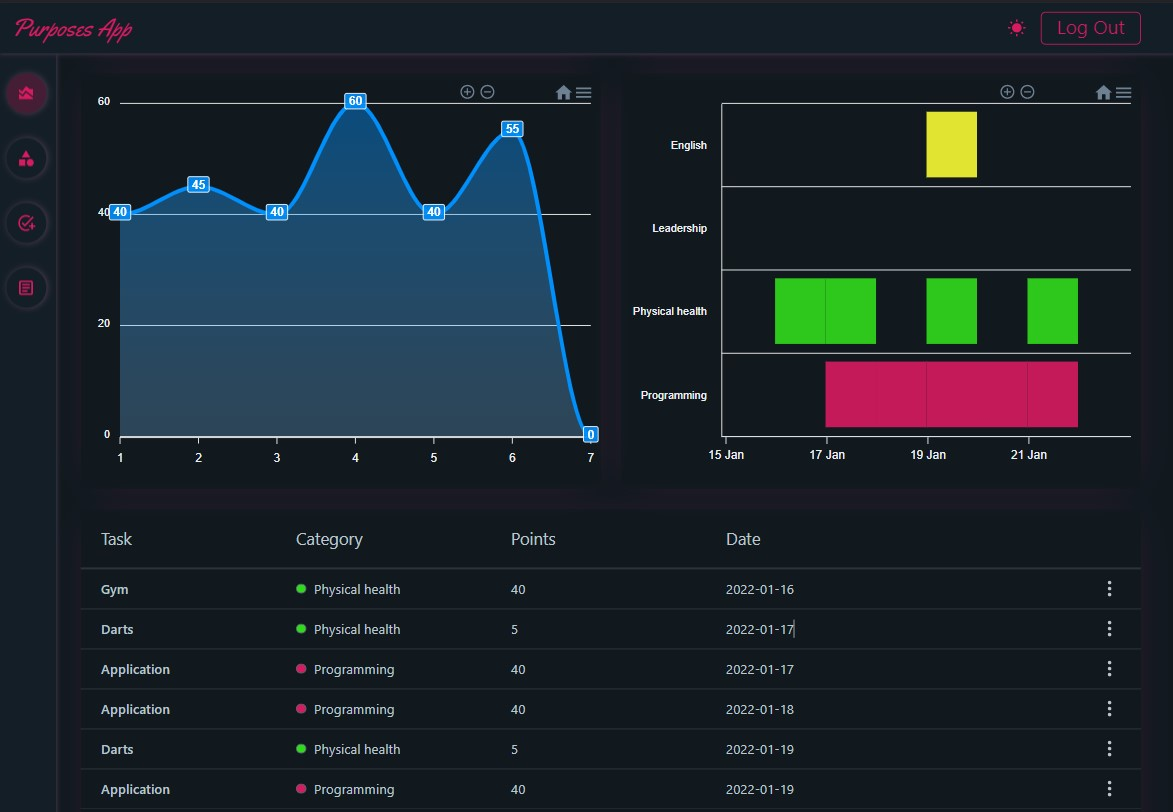
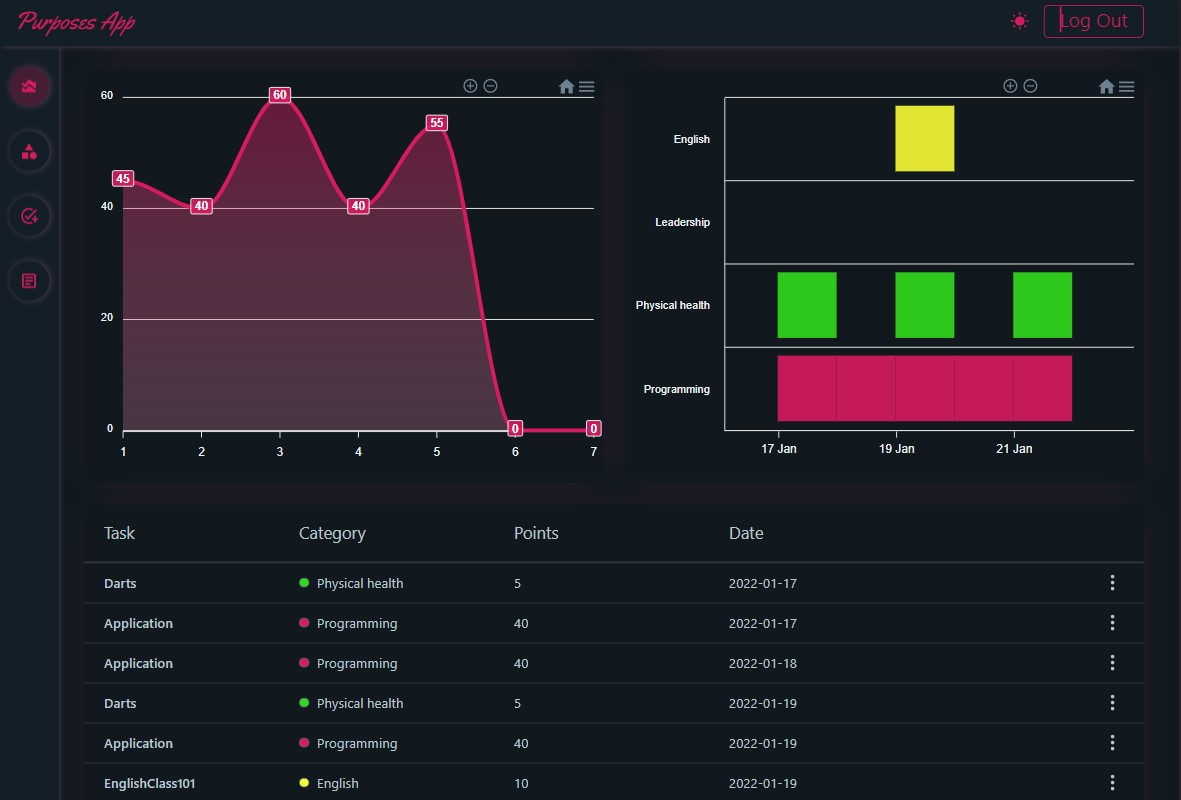
Change color of area chart

diff --git a/src/components/common/Charts/Area/Area.jsx b/src/components/common/Charts/Area/Area.jsx
@@ -4,6 +4,7 @@ import PropTypes from 'prop-types';
 import Chart from 'react-apexcharts';
 
 import './Area.scss';
+import { COLOR_PRIMARY } from '../../../../constants/color';
 
 const Area = ({ height, data }) => {
   return (
@@ -35,6 +36,7 @@ const Area = ({ height, data }) => {
           tooltip: {
             enabled: false,
           },
+          colors: [COLOR_PRIMARY],
         }}
       />
     </div>
